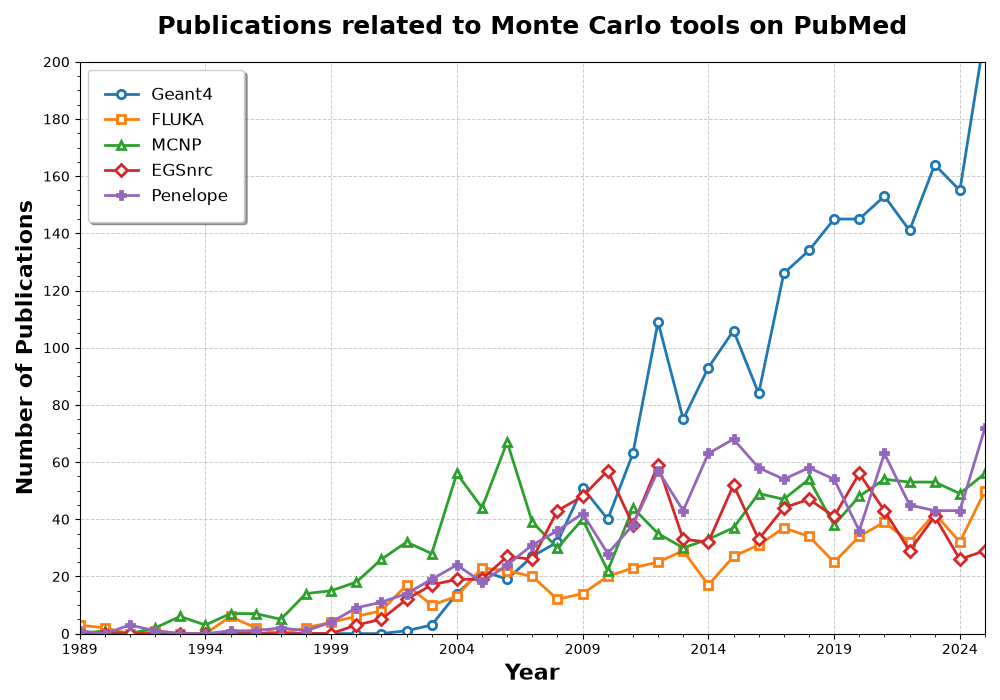
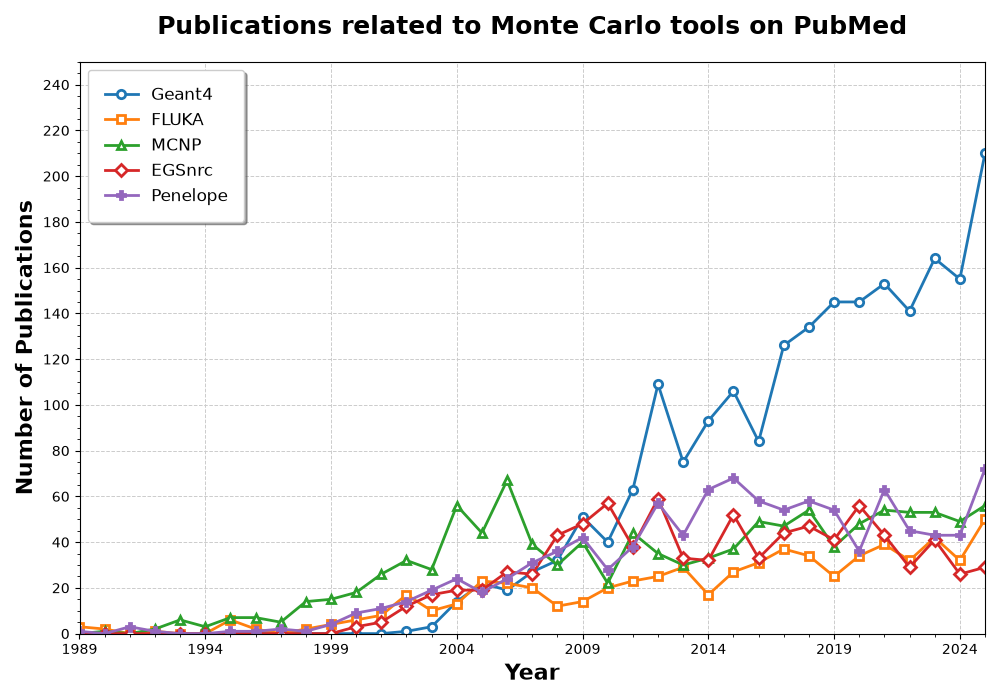
venv and ymax

diff --git a/plot.py b/plot.py
@@ -37,6 +37,9 @@ def fetch_pubmed_data(query, year_from, year_to, cache_filename='pubmed_cache.js
 year_from = 1989
 year_to = 2025
 
+# Plot estreme
+y_max = 250
+
 geant4_data = fetch_pubmed_data("Geant4", year_from, year_to)
 fluka_data = fetch_pubmed_data("FLUKA", year_from, year_to)
 mcnp_data = fetch_pubmed_data("MCNP", year_from, year_to)
@@ -69,14 +72,14 @@ plt.grid(True, which='major', linestyle='--', linewidth=0.7, color='#cccccc') #l
 plt.grid(True, which='minor', linestyle='', linewidth=0)  # Disable minor grid
 
 # Customizing ticks to show fewer horizontal grid lines (two lines per tick label)
-plt.yticks(range(0, 251, 20))
+plt.yticks(range(0, y_max+1, 20))
 
 # Formatting the plot
 plt.xlabel("Year", fontsize=16, fontweight='bold')
 plt.ylabel("Number of Publications", fontsize=16, fontweight='bold')
 plt.title("Publications related to Monte Carlo tools on PubMed", fontsize=18, fontweight='bold', pad=20)
 plt.xlim(year_from, year_to)
-plt.ylim(0, 200)
+plt.ylim(0, y_max)
 plt.xticks(range(year_from, year_to + 1, 5))
 
 # Legend inside the plot

diff --git a/README.md b/README.md
@@ -5,3 +5,27 @@ A script to compare the publication on PubMed related to the most used MC toolki
 <!-- PLOT-START -->
 ![Monte Carlo Plot](MC_PubMed.png?raw=true)
 <!-- PLOT-END -->
+
+## Setup
+
+Usa un virtualenv per isolare le dipendenze del progetto:
+
+```bash
+python3 -m venv venv
+source venv/bin/activate
+pip install -r requirements.txt
+```
+
+Per uscire dal virtualenv:
+
+```bash
+deactivate
+```
+
+## Uso
+
+Con il virtualenv attivato:
+
+```bash
+python plot.py
+```
